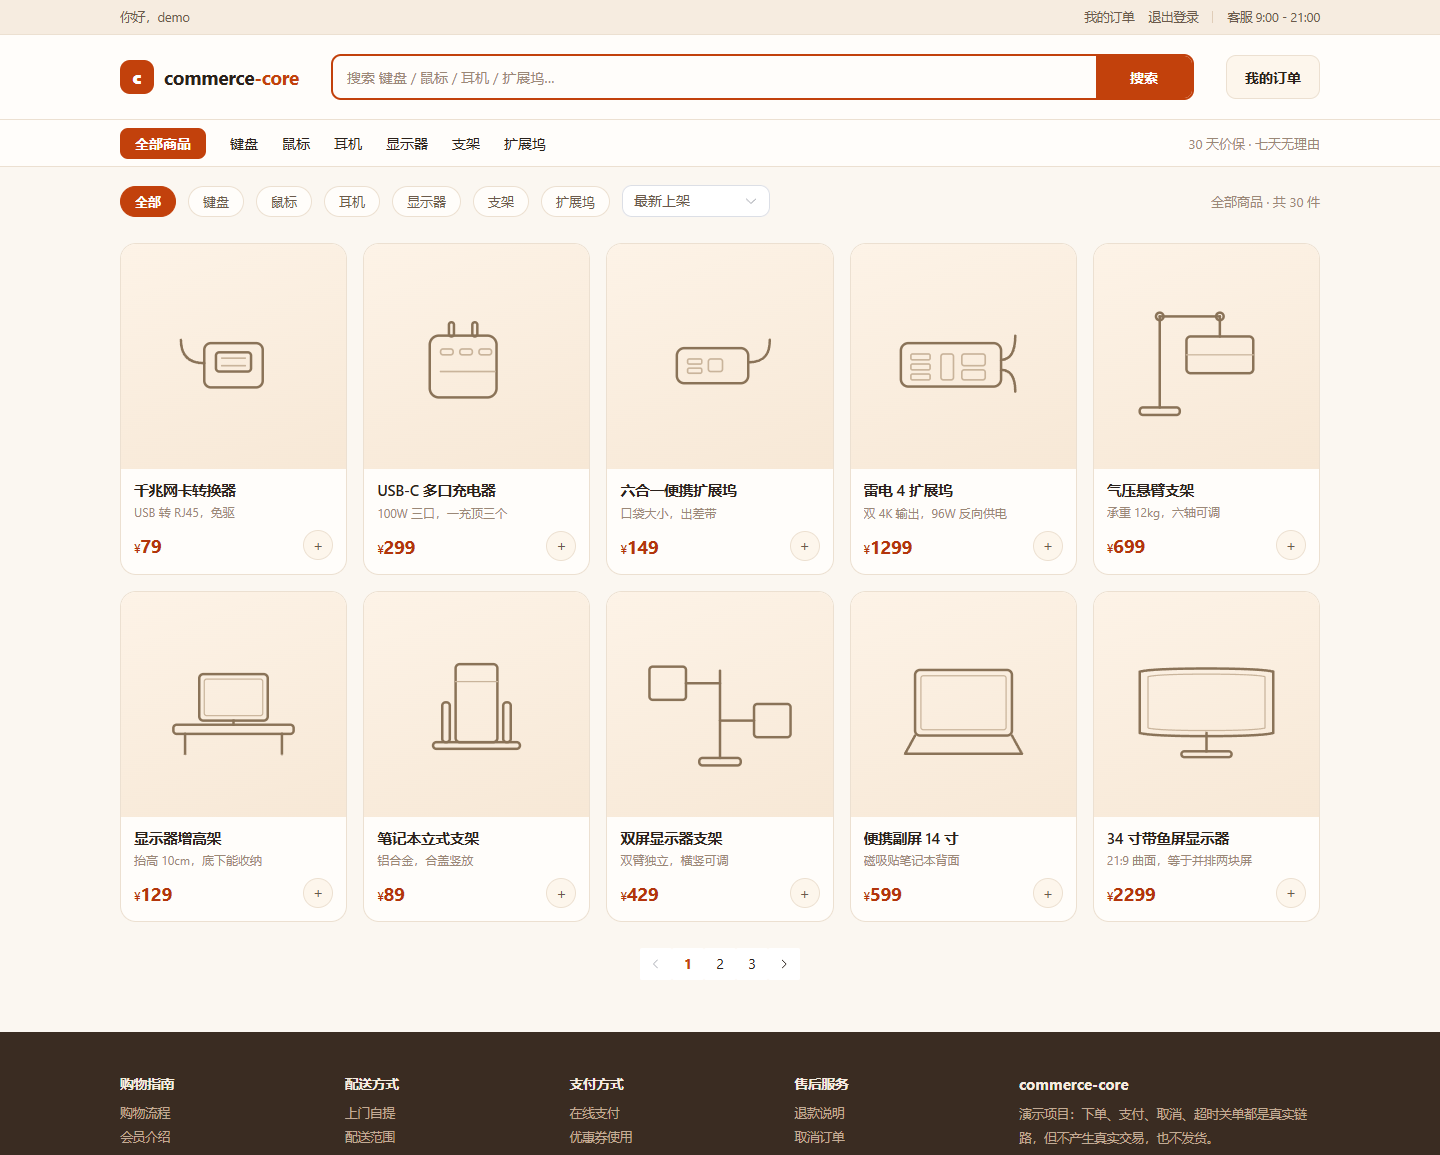
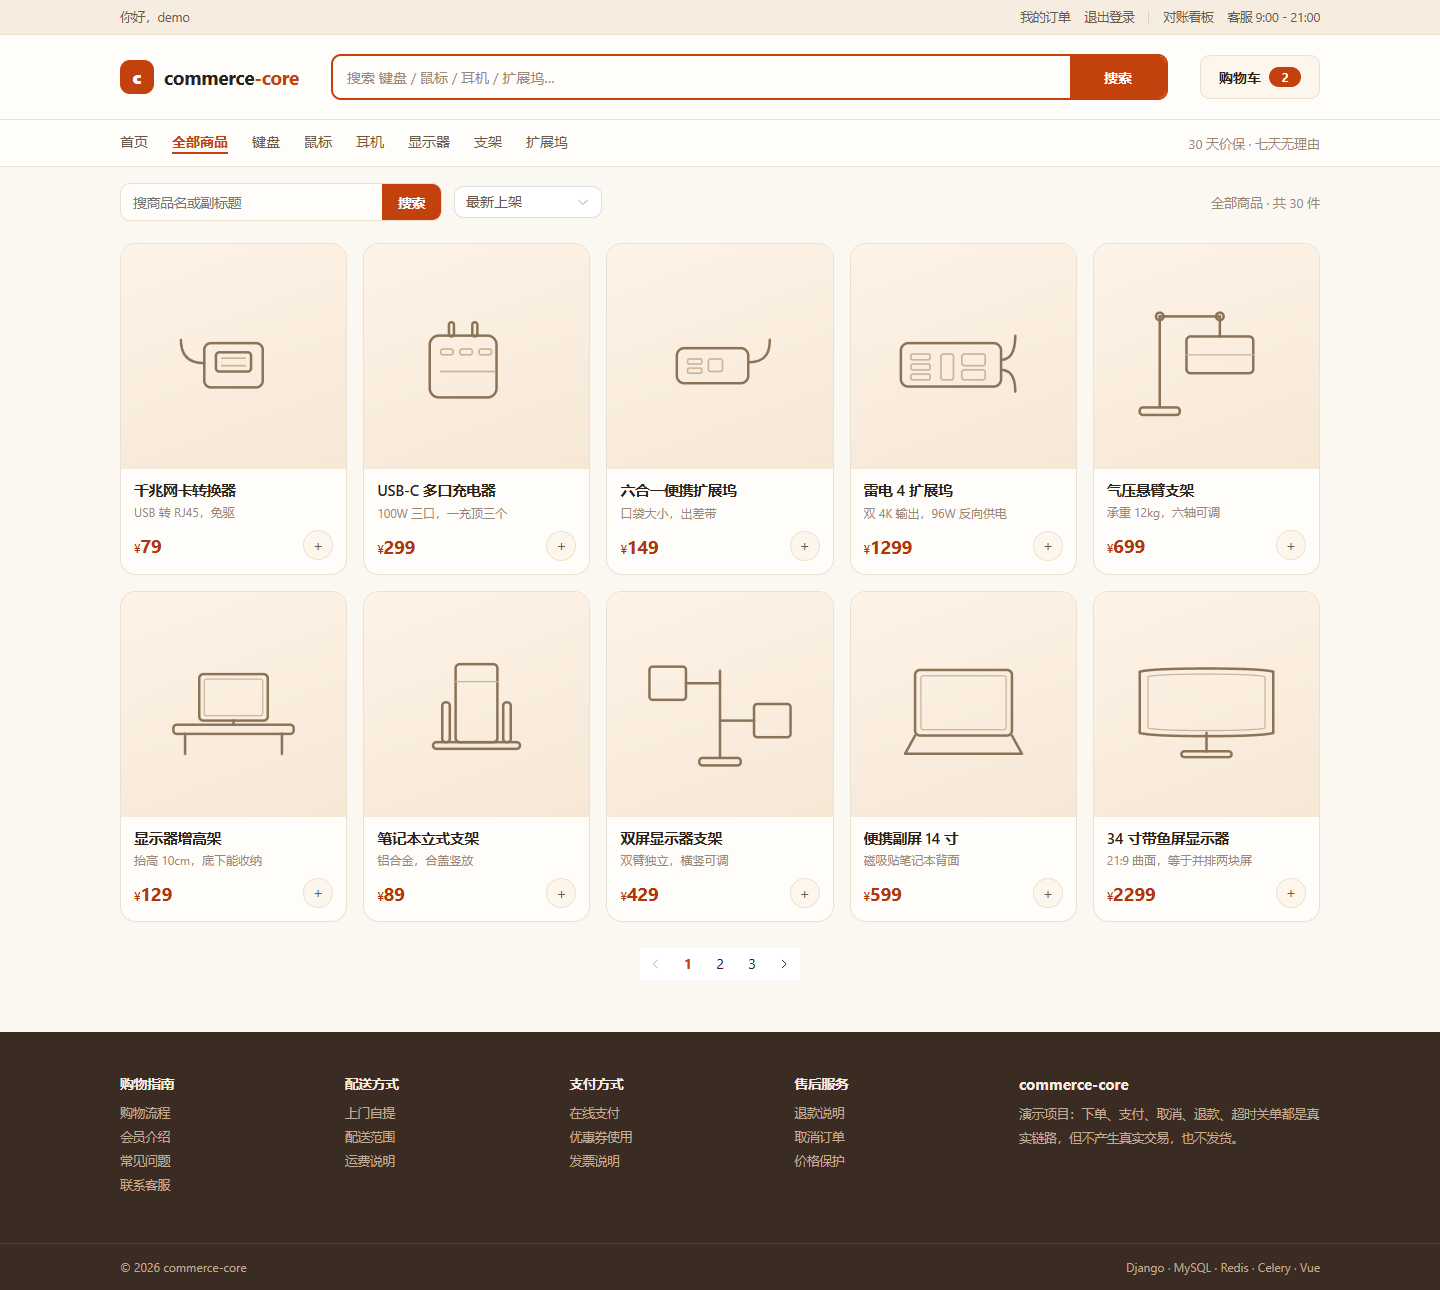
docs: README 按 S15 收口重写，重拍线上截图

diff --git a/README.md b/README.md
@@ -7,7 +7,8 @@
 **演示账号**：`demo` / `demo1234` —— 公开账号，数据都是 seed 造的假数据，支付与退款都是 mock。
 
 > 这是求职作品。Django / MySQL / Celery 部分是**项目级实操**，不是生产级高并发经验；
-> 压测只验证并发正确性与耗时量级，不提供 QPS 结论。
+> 重点在交易链路的**正确性**——不超卖、重复请求只生效一次、状态只能沿规则表走，
+> 吞吐量不在口号里：压测只验证并发正确性与耗时量级，不给 QPS 结论。
 
 ## 这份代码想证明什么
 
@@ -20,6 +21,7 @@
 
 二期（S9–S14）把它补成一个"点进去像回事"的店：30 个带图商品与六类目、购物车（逐行勾选）、
 收货地址与下单快照、评论评分、整单退款、注册与登录限流、运营后台、对账看板、一条命令起站。
+S15 是上线后按用户走查修的一轮体验问题（注册提示、导航去重、按钮对齐、明细带商品名、后台可进）。
 一期结论没有推翻，只是外面多了一层壳。
 
 ---
@@ -33,7 +35,7 @@
 | 容器 | 6 个：api(uWSGI) / web(nginx+静态) / worker / beat / mysql / redis |
 | 内存实测 | 容器合计约 **413 MiB**，系统 available **759 MB** |
 | 部署方式 | push 到 main → GitHub Actions → ACR → ssh 上线 |
-| 数据 | 30 个商品（6 类 × 5，都有图有详情）、35 个 SKU、3 张券；`demo` 账号名下有 `ODDEMO0001`–`ODDEMO0005` 五张演示订单（覆盖全部状态）与 2 条评价 |
+| 数据 | 30 个商品（6 类 × 5，都有图有详情）、35 个 SKU、3 张券；`demo` 账号名下有 `ODDEMO0001`–`ODDEMO0005` 五张演示订单（已支付 / 已取消 / 已关闭 / 已退款都有）与 2 条评价 |
 
 **演示账号**：`demo` / `demo1234`（仅线上；本地要自己建，见 §7）
 
@@ -44,6 +46,17 @@
 
 `/api/v1/orders` 需要登录（401），这是设计如此——订单接口不开放匿名访问。
 访客也可以自己点「注册」建号，注册成功即登录并送一张「新客满 49 减 5」。
+
+### 五分钟走一遍
+
+用 `demo` 登录就够，不用注册：
+
+1. 首页点「键盘」进分类，或直接点顶部「全部商品」；
+2. 商品详情选规格 →「加入购物车」→ 购物车勾选 →「去结算」；
+3. 在「我的订单」里点开一张「已支付」的订单 →「申请退款」，看库存与优惠券怎么回到原位；
+   想试支付就先用购物车下一单，再在新订单上点「模拟支付」；
+4. 打开 `/audit`：横幅写着"账是平的"，35 个 SKU 全部满足两条恒等式；
+5. 想自己注册：右上「注册」，密码至少 8 位、不能纯数字、别用 testtest 这类常见词。
 
 ---
 
@@ -59,7 +72,8 @@
 
 ![商品列表](docs/images/ui-products.png)
 
-**商品列表**：分类胶囊与排序按 URL 参数走，翻页和筛选都能直接分享链接；价格取该商品最低在售价。
+**商品列表**：分类与排序都按 URL 参数走，翻页和筛选都能直接分享链接；价格取该商品最低在售价。
+分类只在顶部导航一处，当前分类带下划线——不做两排一模一样的入口。
 
 ![商品详情与结算](docs/images/ui-detail.png)
 
@@ -86,6 +100,26 @@
 
 **对账看板**（`/audit`，免登录只读）：按 SKU 列出初始、已售、回补、账面与明细合计。
 两条恒等式都成立才算"平"——「初始 − 已售 = 账面」与「已售 + 回补 = 明细合计」，只统计数量，不含用户信息。
+
+### 运营后台
+
+后台没有自研：用 **Django admin** 复用现有模型生成管理界面，只写了 `ModelAdmin` 定制。
+商品可编辑（封面缩略图、分类/热销/上下架筛选、列表页直接改上下架），
+**订单与券覆写成只读**——状态只能由接口那条条件更新推进，后台能改就是绕过状态机。
+
+![后台商品列表](docs/images/ui-admin.png)
+
+![后台订单只读](docs/images/ui-admin-order.png)
+
+`/admin/` 公网一律 404（C1），要走 SSH 隧道才进得去：
+
+```bash
+ssh -N -L 8080:127.0.0.1:8080 aliyun      # 窗口保持开着
+# 浏览器打开 http://127.0.0.1:8080/admin/
+```
+
+服务端已经有一个 `admin` 账号（superuser），**口令不在仓库里**——放在部署机的运维笔记里。
+本地想试就自己建一个：`python manage.py create_demo_user --username admin --staff`。
 
 ---
 
@@ -373,13 +407,9 @@ cd deploy && docker compose -f docker-compose.prod.yml run --rm -T api python ma
 
 > 容器名与本地栈相同，两套不能同时起；`docker compose run` 在无 TTY 的环境必须加 `-T`。
 
-**运营后台**：`/admin/` 公网是 404（C1：nginx 只放 127.0.0.1 与内网网段）。要用 SSH 隧道：
-
-```bash
-ssh -N -L 8080:127.0.0.1:8080 aliyun     # 然后浏览器开 http://127.0.0.1:8080/admin/
-```
-
-后台里商品可编辑（封面缩略图、分类/热销/上下架筛选），订单与券只读。
+**运营后台**：本地直接开 `/admin/`（dev 没有 C1 限制），
+先用 `python manage.py create_demo_user --username admin --staff` 建一个管理员。
+线上的进法见 §2「运营后台」。
 
 **Windows 上 MySQL 起不来？** 报 `ports are not available: ... 127.0.0.1:3307` 通常不是被别的程序占了，
 而是 3307 落在了 Hyper-V 的保留端口区间（重启后区间会变）：
@@ -492,6 +522,8 @@ docs/          plan.md（基线）、plan-changes.md（修订）、phases/（阶
 | 高并发下连接数打满 | stocklab 50 线程 + 应用连接 > 50 | 本地 compose `max_connections=120`（线上仍 50，线上并发由 uWSGI 2×2 限制） |
 | 乐观锁"卖不完" | 50 并发只成交 38–40/100 | **保留为结论**：有限重试在热点行上必然放弃一部分，加一列 10 次重试做对照 |
 | 退款把库存补了、看板却红了 | 对账的"回补"口径漏了 `REFUNDED`，退回来的量既不算已售也不算回补 | `RETURNED` 加上 `REFUNDED`；连 `_order_counts` 的标签一起补，并加一条"退款后仍然平"的用例 |
+| 走隧道进后台，点登录 403 | nginx 用 `Host $host` 丢了端口，浏览器 Origin 带端口，Django 的 CSRF 判不一致 | 三处 `proxy_set_header` 改成 `$http_host`；顺带修好分页响应里缺端口的绝对链接 |
+| `--staff` 建的账号进后台是空白页 | 只给了 `is_staff`，而 admin 的可见性由模型权限决定 | 改为同时给 superuser；订单/券只读仍由 `ModelAdmin` 覆写保证，超管也改不了 |
 | `.ps1` 中文全乱、还报语法错 | PowerShell 5.1 按 ANSI 读没有 BOM 的文件 | `.ps1` 存 UTF-8 **带 BOM**；Python / JS / Markdown 不要 BOM |
 
 ---
@@ -510,8 +542,10 @@ docs/          plan.md（基线）、plan-changes.md（修订）、phases/（阶
 - 服务器上 `PAY_CALLBACK_SECRET` 未单独设置时回落到 `SECRET_KEY`；
 - 回滚只回镜像，不回数据库（靠加法迁移保证旧代码能用新库）；
 - 自动部署 = 单机 Compose 重建，重建期间有秒级不可用；
+- **移动端没做响应式**（计划里明确不做），手机打开排版会挤；
 - 退款后已写的评价保留：评价记录的是"买过并用过"，与订单是否退款无关；
-- 一期的外部审查只覆盖提交 `4ec7f93`，二期新增代码不在其覆盖范围内。
+- 订单明细的商品名只对新单生效：历史订单是快照，仍是旧的"规格名"格式；
+- 一期的外部审查只覆盖提交 `4ec7f93`，二期与 S15 的新增代码不在其覆盖范围内。
 
 ---
 
@@ -521,7 +555,7 @@ docs/          plan.md（基线）、plan-changes.md（修订）、phases/（阶
 |---|---|
 | [`docs/plan.md`](docs/plan.md) | 施工基线：范围、硬性约束 C1–C8、阶段与门槛、内存预算与降级顺序 |
 | [`docs/plan-changes.md`](docs/plan-changes.md) | 每次改计划的"之前／现在"，含一次失败分支的重写（部署失败不再切到另一个项目，改为回滚上一版） |
-| [`docs/phases/`](docs/phases) | `phase0.md` … `phase14.md`：每阶段的验收证据 |
+| [`docs/phases/`](docs/phases) | `phase0.md` … `phase15.md`：每阶段的验收证据 |
 | [`STATUS.md`](STATUS.md) | 10 秒指针：现在在哪、下一步、未验证清单 |
 
 每个 `phaseN.md` 都包含实测输出、被推翻的假设和返工记录，例如：
@@ -531,6 +565,7 @@ docs/          plan.md（基线）、plan-changes.md（修订）、phases/（阶
 - ACR 拒收 buildx attestation、CI 里"步骤 skipped 但 job 变绿"的假绿现场（`phase7.md`）
 - 照着 README 走时踩到的旧镜像 404、mock 支付 403（`phase8.md`）
 - 对账公式写错、"回补"口径漏掉退款会让线上立刻变红（`phase13.md`、`phase14.md`）
+- 走查才发现的 CSRF 403 与"`--staff` 进后台空白页"（`phase15.md`）
 
 ## 14. 常见问题
 

diff --git a/STATUS.md b/STATUS.md
@@ -22,12 +22,11 @@
 - 后台：`admin` 账号已建（superuser），走 SSH 隧道可进，公网 `/admin/` 仍 404；口令只在 `..\ops\demo-account.md`
 - 测试：**232 个用例**全过；注释密度 2.4%；ruff / eslint / vite build 均通过
 - 分支：`main` 与 `phase2` 同指（当前 HEAD）
-- README 已按 `plan.md` §13.6 重写过一版，**下一轮按走查结论再改**
+- README 已按 S15 走查结论重写并重拍截图（9 张，全部取自线上）
 
 ## 下一步
 
-用户先自己再走查一轮；有问题的记清单，改完最后整改 README（截图要按新导航重拍）。
-再往后没有剩余阶段，候选（**不是承诺**）在 `docs/candidates.md`：
+没有进行中的阶段。想继续的话，候选（**不是承诺**）在 `docs/candidates.md`：
 HTTPS 与域名、部分退款、评论带图、商品搜索、看板历史趋势。
 
 ## 卡点
